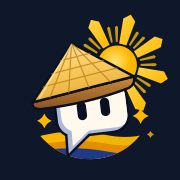
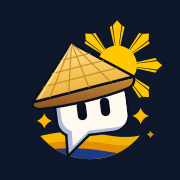
fix(brand): match Philippine sun reference with eight triple rays

Changed region(s): [[0.4444, 0.0833, 0.9444, 0.6111]]

diff --git a/diskarte/src/components/brand/DiskarteLogo.tsx b/diskarte/src/components/brand/DiskarteLogo.tsx
@@ -32,31 +32,14 @@ export function sparklePath(cx: number, cy: number, r: number) {
   return `M${cx} ${cy - r} Q${cx + k} ${cy - k} ${cx + r} ${cy} Q${cx + k} ${cy + k} ${cx} ${cy + r} Q${cx - k} ${cy + k} ${cx - r} ${cy} Q${cx - k} ${cy - k} ${cx} ${cy - r}Z`;
 }
 
-/** Philippine-sun style ray: a tapered blade from innerR to outerR along `angle` (deg). */
-function rayPath(cx: number, cy: number, angle: number, innerR: number, outerR: number, innerW: number, outerW: number) {
-  const a = (angle * Math.PI) / 180;
-  const ux = Math.cos(a);
-  const uy = Math.sin(a);
-  const px = -uy;
-  const py = ux;
-  const pts = [
-    [cx + ux * innerR + px * innerW, cy + uy * innerR + py * innerW],
-    [cx + ux * outerR + px * outerW, cy + uy * outerR + py * outerW],
-    [cx + ux * (outerR + outerW * 0.9), cy + uy * (outerR + outerW * 0.9)],
-    [cx + ux * outerR - px * outerW, cy + uy * outerR - py * outerW],
-    [cx + ux * innerR - px * innerW, cy + uy * innerR - py * innerW],
-  ];
-  return `M${pts.map(([x, y]) => `${x.toFixed(1)} ${y.toFixed(1)}`).join("L")}Z`;
-}
-
 const SUN = { cx: 344, cy: 176, r: 64 };
-const MAIN_RAYS = [-165, -120, -75, -30, 15, 60].map((angle) =>
-  rayPath(SUN.cx, SUN.cy, angle, SUN.r + 6, SUN.r + 88, 12, 20),
-);
-const MINOR_RAYS = [-142, -97, -52, -7, 38].flatMap((angle) => [
-  rayPath(SUN.cx, SUN.cy, angle - 6, SUN.r + 12, SUN.r + 60, 3, 5),
-  rayPath(SUN.cx, SUN.cy, angle + 6, SUN.r + 12, SUN.r + 60, 3, 5),
-]);
+const SUN_RAY_ANGLES = [0, 45, 90, 135, 180, 225, 270, 315];
+// Each Philippine sun ray has a pointed centre blade and two shorter flanking blades.
+const SUN_RAY_BLADES = [
+  "M-5 -58 L-14 -130 L0 -146 L14 -130 L5 -58 Z",
+  "M-9 -58 L-24 -124 L-17 -129 L-6 -58 Z",
+  "M9 -58 L24 -124 L17 -129 L6 -58 Z",
+];
 
 /** Salakot cone: apex, left brim tip, right brim tip. */
 const HAT = {
@@ -102,14 +85,15 @@ function Mascot({ ids, bubble, eyes, outline }: { ids: (n: string) => string; bu
   return (
     <g>
       {/* Sun */}
-      <g>
-        {MINOR_RAYS.map((d, i) => (
-          <path key={`m${i}`} d={d} fill={GOLD_DEEP} opacity={0.85} />
+      <g data-brand="philippine-sun" transform={`translate(${SUN.cx} ${SUN.cy})`} fill="#FFC800">
+        {SUN_RAY_ANGLES.map((angle) => (
+          <g key={angle} transform={`rotate(${angle})`}>
+            {SUN_RAY_BLADES.map((d, i) => (
+              <path key={i} d={d} />
+            ))}
+          </g>
         ))}
-        {MAIN_RAYS.map((d, i) => (
-          <path key={`r${i}`} d={d} fill={`url(#${ids("ray")})`} />
-        ))}
-        <circle cx={SUN.cx} cy={SUN.cy} r={SUN.r} fill={`url(#${ids("sun")})`} />
+        <circle r={SUN.r} />
       </g>
 
       {/* Chat bubble */}
@@ -153,15 +137,6 @@ function rectProps(r: { x: number; y: number; w: number; h: number; rx: number }
 function Defs({ ids }: { ids: (n: string) => string }) {
   return (
     <defs>
-      <radialGradient id={ids("sun")} cx="45%" cy="40%" r="65%">
-        <stop offset="0%" stopColor="#FFE27A" />
-        <stop offset="60%" stopColor={GOLD} />
-        <stop offset="100%" stopColor={GOLD_DEEP} />
-      </radialGradient>
-      <linearGradient id={ids("ray")} x1="0" y1="0" x2="1" y2="1">
-        <stop offset="0%" stopColor="#FFD54A" />
-        <stop offset="100%" stopColor={GOLD} />
-      </linearGradient>
       <linearGradient id={ids("straw")} x1="0.3" y1="0" x2="0.6" y2="1">
         <stop offset="0%" stopColor="#FFE08A" />
         <stop offset="55%" stopColor="#F5C451" />
